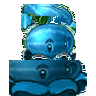
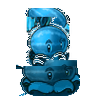
feat(wintermelon): single head + basket + sling arm; restore MelonPult (v3.2.14 -> v3.2.15-wmsolo)
User clarification: 'I'm talking about Winter Melon, not MelonPult' — so the
previous v3.2.14 went off-target by also rebuilding MelonPult.

Fix:
1. Restored MelonPult.png to v3.2.13 (148f9ba) — the user-satisfied
   diagonal layout (green sphere top-left + trebuchet bottom-right +
   worm) that the user had not asked to change.
2. Rebuilt WinterMelon.png (build_wm_v6.py) — one head, basket, sling:
   - ball crop from v3.2.12 (y9-68, x14-82), resized to 58x58 at
     (x19-77, y8-66) — includes the small ice-spike on top as the
     natural ice-melon icicle
   - basket = arc + horizontal bar in (70,150,190) / (30,80,120)
     under the ball (y54-78)
   - sling arms = two diagonal strokes from base corners (14,92)
     and (82,92) up to the basket rim (22,68) and (74,68)
   - base from v3.2.12 bottom (y63-95, x35-96), resized to 64x32 at
     (x16-80, y64-96) — includes the wooden legs/wheels
   - green residue from Winter_Melon1 (RGB 48,114,41 in the icicle
     band) hue-shifted green->ice-blue per pixel via HSV
   - flood-fill internal holes after assembly

Result: WinterMelon = one ice-blue sphere (single head) + ice spike
on top + bowl basket + two sling arms + base. Blue = 52% of opaque
pixels, green residue = 1 px (0%). Vertical layout matching the
Melon-pult trebuchet geometry, 0 internal holes.

Bumped v3.2.14-trebuchet -> v3.2.15-wmsolo (asset 1788080232).
Cache-buster refreshed in 5 files.

diff --git a/pvz-web/js/GameLoop.js b/pvz-web/js/GameLoop.js
@@ -214,7 +214,7 @@ class Game {
             { type: 'chomper', cost: 150, cooldown: 7.5, img: 'assets/images/Card/Plants/Chomper.png' },
             { type: 'tallnut', cost: 125, cooldown: 30, img: 'assets/images/Card/Plants/TallNut.png' },
             { type: 'puffshroom', cost: 0, cooldown: 7.5, img: 'assets/images/Card/Plants/PuffShroom.png' },
-            { type: 'melonpult', cost: 300, cooldown: 7.5, img: 'assets/images/Card/Plants/MelonPult.png?v=1788077290' },{ type: 'iceshroom', cost: 75, cooldown: 50, img: 'assets/images/Card/Plants/IceShroom.png' },
+            { type: 'melonpult', cost: 300, cooldown: 7.5, img: 'assets/images/Card/Plants/MelonPult.png?v=1788080232' },{ type: 'iceshroom', cost: 75, cooldown: 50, img: 'assets/images/Card/Plants/IceShroom.png' },
             { type: 'doomshroom', cost: 125, cooldown: 50, img: 'assets/images/Card/Plants/DoomShroom.png' },
             { type: 'spikeweed', cost: 100, cooldown: 7.5, img: 'assets/images/Card/Plants/Spikeweed.png' },
             { type: 'garlic', cost: 50, cooldown: 7.5, img: 'assets/images/Card/Plants/Garlic.png' }
@@ -277,7 +277,7 @@ class Game {
             { a: 'snowpea', b: 'wallnut', result: '寒冰坚果', img: 'assets/images/Plants/WallNut/WallNut.gif', filter: 'hue-rotate(180deg) saturate(1.5) brightness(1.2)', css: false },
             { a: 'peashooter', b: 'cherrybomb', result: '樱桃射手', img: 'assets/images/Plants/Peashooter/Peashooter.gif', filter: 'hue-rotate(-45deg) saturate(2.0)', css: false },
             { a: 'sunflower', b: 'doomshroom', result: '毁灭向日葵', img: 'assets/images/Plants/SunFlower/SunFlower1.gif', filter: 'grayscale(0.8) brightness(0.6) sepia(1) hue-rotate(240deg) saturate(3)', css: false },
-            { a: 'melonpult', b: 'iceshroom', result: '冰西瓜投手', img: 'assets/images/Plants/WinterMelon/WinterMelon.png?v=1788077290', css: false },
+            { a: 'melonpult', b: 'iceshroom', result: '冰西瓜投手', img: 'assets/images/Plants/WinterMelon/WinterMelon.png?v=1788080232', css: false },
             { a: 'repeater', b: 'spikeweed', result: '猫尾草', img: 'assets/images/Plants/Cattail/Cattail.gif', css: false },
             { a: 'fumeshroom', b: 'fumeshroom', result: '忧郁菇', img: 'assets/images/Plants/GloomShroom/GloomShroom.gif', css: false },
             { a: 'spikeweed', b: 'spikeweed', result: '钢地刺', img: 'assets/images/Plants/Spikerock/Spikerock.gif', css: false },
@@ -310,8 +310,8 @@ class Game {
                     'squash': 'assets/images/Plants/Squash/Squash.gif',
                     'doomshroom': 'assets/images/Plants/DoomShroom/DoomShroom.gif',
                     'jalapeno': 'assets/images/Plants/Jalapeno/Jalapeno.gif',
-                    'melonpult': 'assets/images/Plants/MelonPult/MelonPult.png?v=1788077290',
-                    'wintermelon': 'assets/images/Plants/WinterMelon/WinterMelon.png?v=1788077290',
+                    'melonpult': 'assets/images/Plants/MelonPult/MelonPult.png?v=1788080232',
+                    'wintermelon': 'assets/images/Plants/WinterMelon/WinterMelon.png?v=1788080232',
                     'cattail': 'assets/images/Plants/Cattail/Cattail.gif',
                     'gloomshroom': 'assets/images/Plants/GloomShroom/GloomShroom.gif',
                     'spikerock': 'assets/images/Plants/Spikerock/Spikerock.gif'

diff --git a/pvz-web/index.html b/pvz-web/index.html
@@ -4,7 +4,7 @@
     <meta charset="UTF-8">
     <meta name="viewport" content="width=device-width, initial-scale=1.0">
     <title>Plants vs Zombies - Web Clone</title>
-    <link rel="stylesheet" href="css/style.css?v=1788079959">
+    <link rel="stylesheet" href="css/style.css?v=1788080232">
 </head>
 <body>
     <div id="game-container">
@@ -119,16 +119,16 @@
                 });
         })();
     </script>
-    <script src="js/InputManager.js?v=1788079959"></script>
-    <script src="js/Board.js?v=1788079959"></script>
-    <script src="js/entities/Entity.js?v=1788079959"></script>
-    <script src="js/entities/Plant.js?v=1788079959"></script>
-    <script src="js/entities/Zombie.js?v=1788079959"></script>
-    <script src="js/entities/Projectile.js?v=1788079959"></script>
-    <script src="js/entities/Sun.js?v=1788079959"></script>
-    <script src="js/managers/WaveManager.js?v=1788079959"></script>
-    <script src="js/managers/CollisionManager.js?v=1788079959"></script>
-    <script src="js/managers/EventManager.js?v=1788079959"></script>
-    <script src="js/GameLoop.js?v=1788079959"></script>
+    <script src="js/InputManager.js?v=1788080232"></script>
+    <script src="js/Board.js?v=1788080232"></script>
+    <script src="js/entities/Entity.js?v=1788080232"></script>
+    <script src="js/entities/Plant.js?v=1788080232"></script>
+    <script src="js/entities/Zombie.js?v=1788080232"></script>
+    <script src="js/entities/Projectile.js?v=1788080232"></script>
+    <script src="js/entities/Sun.js?v=1788080232"></script>
+    <script src="js/managers/WaveManager.js?v=1788080232"></script>
+    <script src="js/managers/CollisionManager.js?v=1788080232"></script>
+    <script src="js/managers/EventManager.js?v=1788080232"></script>
+    <script src="js/GameLoop.js?v=1788080232"></script>
 </body>
 </html>

diff --git a/pvz-web/js/entities/Projectile.js b/pvz-web/js/entities/Projectile.js
@@ -19,12 +19,12 @@ class Projectile extends Entity {
             this.element.src = 'assets/images/Plants/ShroomBullet.gif';
             this.damage = 40;
         } else if (type === 'melon') {
-            this.element.src = 'assets/images/Plants/MelonPult/Melon.png?v=1788076358';
+            this.element.src = 'assets/images/Plants/MelonPult/Melon.png?v=1788080232';
             this.element.style.transform = 'scale(1.0)';
             this.element.style.borderRadius = '50%';
             this.damage = 60;
         } else if (type === 'wintermelon') {
-            this.element.src = 'assets/images/Plants/MelonPult/WinterMelon.png?v=1788076358';
+            this.element.src = 'assets/images/Plants/MelonPult/WinterMelon.png?v=1788080232';
             this.element.style.transform = 'scale(1.0)';
             this.element.style.borderRadius = '50%';
             this.damage = 60;
@@ -34,13 +34,13 @@ class Projectile extends Entity {
             this.damage = 20;
             this.speed = 400;
         } else if (type === 'cattail_melon') {
-            this.element.src = 'assets/images/Plants/MelonPult/Melon_small.png?v=1788076358';
+            this.element.src = 'assets/images/Plants/MelonPult/Melon_small.png?v=1788080232';
             this.element.style.transform = 'scale(0.8)';
             this.element.style.borderRadius = '50%';
             this.damage = 60;
             this.speed = 400;
         } else if (type === 'cattail_wintermelon') {
-            this.element.src = 'assets/images/Plants/MelonPult/WinterMelon_small.png?v=1788076358';
+            this.element.src = 'assets/images/Plants/MelonPult/WinterMelon_small.png?v=1788080232';
             this.element.style.transform = 'scale(0.8)';
             this.element.style.borderRadius = '50%';
             this.damage = 60;

diff --git a/pvz-web/js/entities/Plant.js b/pvz-web/js/entities/Plant.js
@@ -153,12 +153,12 @@ class Plant extends Entity {
             stat.hp = 300;
             stat.fireRate = 1.0;
             stat.fireTimer = 0;
-            stat.src = 'assets/images/Plants/MelonPult/MelonPult.png?v=1788076358';
+            stat.src = 'assets/images/Plants/MelonPult/MelonPult.png?v=1788080232';
         } else if (type === 'wintermelon') {
             stat.hp = 300;
             stat.fireRate = 1.0;
             stat.fireTimer = 0;
-            stat.src = 'assets/images/Plants/WinterMelon/WinterMelon.png?v=1788076358';
+            stat.src = 'assets/images/Plants/WinterMelon/WinterMelon.png?v=1788080232';
         }
         
 

diff --git a/pvz-web/js/InputManager.js b/pvz-web/js/InputManager.js
@@ -130,8 +130,8 @@ class InputManager {
             // Melon / Winter Melon 图是 PNG，其他植物是 GIF
             const isMelonSprite = imgName === 'MelonPult/MelonPult' || imgName === 'WinterMelon/WinterMelon';
             const url = isMelonSprite
-                ? `assets/images/Plants/${imgName}.png?v=1788076358`
-                : `assets/images/Plants/${imgName}.gif?v=1788076358`;
+                ? `assets/images/Plants/${imgName}.png?v=1788080232`
+                : `assets/images/Plants/${imgName}.gif?v=1788080232`;
             this.dragGhost.style.backgroundImage = `url('${url}')`;
         }
     }

diff --git a/build_wm_v6.py b/build_wm_v6.py
@@ -1,0 +1,144 @@
+"""
+WinterMelon 最终造型（v3.2.15-wmsolo）：
+- 用户澄清：说的是冰西瓜不是西瓜；西瓜恢复原版不动。
+- 冰西瓜要求：一个头（一个冰球）+ 托篮 + 投篮装置（投石臂）+ 下半身底座。
+- 顶部冰柱带绿色残留 = 视觉"两个头"元凶，清理残留 + 只保留球顶小冰棱。
+- 结构（96x96，垂直投石车）：
+    冰棱(球顶自带) → 冰球(居中) → 托篮(球底碗形) → 投石臂(斜杆) → 底座(底部)
+"""
+import numpy as np
+from PIL import Image, ImageDraw
+from collections import deque
+
+
+def fill_holes(arr):
+    h, w = arr.shape[:2]
+    alpha = arr[:, :, 3]
+    transparent = alpha == 0
+    visited = np.zeros_like(transparent, dtype=bool)
+    q = deque()
+    for x in range(w):
+        if transparent[0, x] and not visited[0, x]: q.append((0, x)); visited[0, x] = True
+        if transparent[h-1, x] and not visited[h-1, x]: q.append((h-1, x)); visited[h-1, x] = True
+    for y in range(h):
+        if transparent[y, 0] and not visited[y, 0]: q.append((y, 0)); visited[y, 0] = True
+        if transparent[y, w-1] and not visited[y, w-1]: q.append((y, w-1)); visited[y, w-1] = True
+    while q:
+        y, x = q.popleft()
+        for dy, dx in [(-1,0),(1,0),(0,-1),(0,1)]:
+            ny, nx = y+dy, x+dx
+            if 0 <= ny < h and 0 <= nx < w and transparent[ny, nx] and not visited[ny, nx]:
+                visited[ny, nx] = True; q.append((ny, nx))
+    holes = transparent & ~visited
+    if holes.sum():
+        work = arr.copy()
+        for _ in range(max(h, w)):
+            ys, xs = np.where(holes)
+            if len(ys) == 0: break
+            filled = []
+            for y, x in zip(ys, xs):
+                colors = []
+                for dy in (-1,0,1):
+                    for dx in (-1,0,1):
+                        if dy==0 and dx==0: continue
+                        ny, nx = y+dy, x+dx
+                        if 0 <= ny < h and 0 <= nx < w and work[ny,nx,3] > 0:
+                            colors.append(work[ny,nx,:3])
+                if colors:
+                    avg = tuple(int(np.mean([c[i] for c in colors])) for i in range(3))
+                    work[y,x,:3] = avg; work[y,x,3] = 255
+                    filled.append((y,x))
+            for y,x in filled: holes[y,x] = False
+            if not filled: break
+        arr = work
+    return arr
+
+
+def iceify(arr):
+    """把偏绿像素 HSV 色相偏移成冰蓝（绿 h=0.28 -> 蓝 h=0.55），保留明暗。"""
+    import colorsys
+    out = arr.copy()
+    h, w = out.shape[:2]
+    for y in range(h):
+        for x in range(w):
+            r, g, b, a = out[y, x]
+            if a == 0:
+                continue
+            if g > r + 20 and g > b + 10:
+                hh, ss, vv = colorsys.rgb_to_hsv(r/255, g/255, b/255)
+                r2, g2, b2 = colorsys.hsv_to_rgb(0.55, min(ss*1.15, 1.0), vv)
+                out[y, x, 0] = int(r2*255)
+                out[y, x, 1] = int(g2*255)
+                out[y, x, 2] = int(b2*255)
+    return out
+
+
+def main():
+    src = Image.open('/tmp/wm_v312.png').convert('RGBA')  # v3.2.12 基准
+    arr = np.array(src)
+
+    # 1) 大冰球（含顶部小冰棱）：y9-68, x14-82 —— 整个"头"
+    ball = src.crop((14, 9, 82, 68))
+    ball_arr = np.array(ball)
+    ball_arr = iceify(ball_arr)          # 清绿色残留（冰棱区）
+    ball = Image.fromarray(ball_arr, 'RGBA').resize((58, 58), Image.LANCZOS)
+
+    # 2) 底座：y63-95, x35-96（v3.2.12 冰色底座）
+    base = src.crop((35, 63, 96, 95))
+    base_arr = np.array(base)
+    base_arr = iceify(base_arr)
+    base = Image.fromarray(base_arr, 'RGBA').resize((64, 32), Image.LANCZOS)
+
+    # 组装
+    canvas = np.zeros((96, 96, 4), dtype=np.uint8)
+
+    # 底座：底部居中 x16-80, y64-96
+    b_arr = np.array(base)
+    canvas[64:96, 16:80] = b_arr
+
+    # 球：居中偏上 x19-77, y8-66（球顶小冰棱露在 y8 上方）
+    bl_arr = np.array(ball)
+    canvas[8:66, 19:77] = bl_arr
+
+    # 托篮（碗形）：包住球底 y56-76
+    d = ImageDraw.Draw(Image.fromarray(canvas, 'RGBA'))
+    ice_b = (70, 150, 190)    # 篮色
+    ice_d = (30, 80, 120)     # 篮深色描边
+    d.arc([18, 54, 78, 78], start=0, end=180, fill=ice_b, width=5)
+    d.arc([18, 54, 78, 78], start=0, end=180, fill=ice_d, width=2)
+    # 篮沿横条（托住球底）
+    d.rectangle([20, 64, 76, 67], fill=ice_d)
+
+    # 投石臂（投篮装置）：底座两侧斜杆到篮沿
+    d.line([(14, 92), (22, 68)], fill=ice_b, width=5)
+    d.line([(82, 92), (74, 68)], fill=ice_b, width=5)
+    d.line([(14, 92), (22, 68)], fill=ice_d, width=2)
+    d.line([(82, 92), (74, 68)], fill=ice_d, width=2)
+    # 底座两条腿
+    d.rectangle([24, 90, 30, 95], fill=ice_d)
+    d.rectangle([66, 90, 72, 95], fill=ice_d)
+
+    canvas = fill_holes(canvas)
+    out = Image.fromarray(canvas, 'RGBA')
+    out.save('/Users/clawbox/nexus-hub/pvz-web/assets/images/Plants/WinterMelon/WinterMelon.png', 'PNG')
+    print('saved WinterMelon.png')
+
+    # 验证
+    a = canvas[:, :, 3]
+    r = canvas[:, :, 0].astype(int); g = canvas[:, :, 1].astype(int); b = canvas[:, :, 2].astype(int)
+    opaque = a > 0
+    blue = (b > r + 40) & (b > 120) & opaque
+    green = (g > r + 30) & (g > b + 20) & opaque
+    n = opaque.sum()
+    print(f'实心={n} ({n/9216:.0%}), 透明={(a==0).sum()}')
+    print(f'蓝色={blue.sum()} ({blue.sum()/n*100:.0f}%), 绿色残留={green.sum()} ({green.sum()/n*100:.0f}%)')
+    print('\nalpha 可视化:')
+    for y in range(0, 96, 3):
+        line = ''
+        for x in range(0, 96, 2):
+            line += '#' if a[y,x]>200 else ('o' if a[y,x]>0 else '.')
+        print(f'{y:3d} {line}')
+
+
+if __name__ == '__main__':
+    main()
